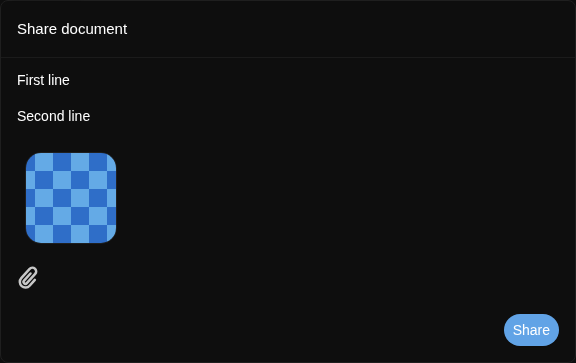
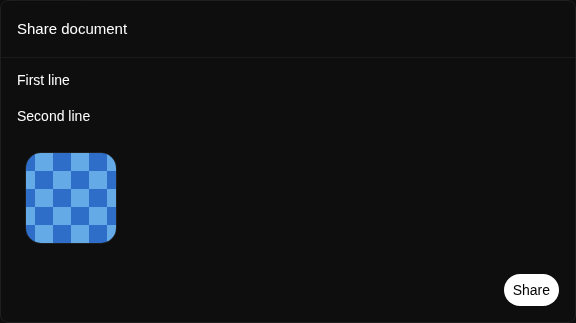
fix(sharing): remove paperclip from all share composers
Why: The shared optional message needs paste support without a paperclip action.

What: Remove the paperclip for every shared entity and simplify its rendering. Preserve paste and drop, adapt existing upload checks, and update the sharing guides.

diff --git a/apps/web/src/lib/core/component/ForwardMessageComposer/browser-test/images.browser.e2e.ts b/apps/web/src/lib/core/component/ForwardMessageComposer/browser-test/images.browser.e2e.ts
@@ -1,4 +1,4 @@
-import { expect, test } from '@playwright/test';
+import { expect, type Page, test } from '@playwright/test';
 
 const IMAGE =
[1 lines of base64/hex data omitted]
@@ -23,14 +23,8 @@ test.beforeEach(async ({ page, context }) => {
   });
 });
 
-test('pastes an image, waits for its upload and sends an inline image with multiline text', async ({
-  page,
-}, testInfo) => {
-  const editor = page.locator('[data-markdown-editable]');
-  await editor.click();
-  await page.keyboard.type('First line');
-  await page.keyboard.press('Enter');
-  await page.keyboard.type('Second line');
+async function pasteImage(page: Page) {
+  await page.locator('[data-markdown-editable]').click();
   await page.evaluate(async (encoded) => {
     const bytes = Uint8Array.from(atob(encoded), (char) => char.charCodeAt(0));
     await navigator.clipboard.write([
@@ -43,6 +37,17 @@ test('pastes an image, waits for its upload and sends an inline image with multi
   await expect(
     page.locator('[data-input-attachments="media"] img[src^="blob:"]')
   ).toBeVisible();
+}
+
+test('pastes an image, waits for its upload and sends an inline image with multiline text', async ({
+  page,
+}, testInfo) => {
+  const editor = page.locator('[data-markdown-editable]');
+  await editor.click();
+  await page.keyboard.type('First line');
+  await page.keyboard.press('Enter');
+  await page.keyboard.type('Second line');
+  await pasteImage(page);
   await expect(
     page.getByRole('button', { name: 'Share', exact: true })
   ).toBeDisabled();
@@ -71,14 +76,8 @@ test('pastes an image, waits for its upload and sends an inline image with multi
 test('removing an uploading image keeps it out of the message', async ({
   page,
 }) => {
-  await page.locator('[data-input-attach-file-picker]').setInputFiles({
-    name: 'removed.png',
-    mimeType: 'image/png',
-    buffer: Buffer.from(IMAGE, 'base64'),
-  });
-  await page
-    .getByRole('button', { name: 'Remove removed.png', exact: true })
-    .click();
+  await pasteImage(page);
+  await page.getByRole('button', { name: /^Remove / }).click();
   await page.getByRole('button', { name: 'Finish uploads' }).click();
   await expect(
     page.getByRole('button', { name: 'Share', exact: true })
@@ -128,18 +127,12 @@ test('accepts a dropped image and lets an upload failure recover', async ({
   await expect(
     page.getByRole('button', { name: 'Share', exact: true })
   ).toBeEnabled();
-  await page.locator('[data-input-attach-file-picker]').setInputFiles({
-    name: 'retry.png',
-    mimeType: 'image/png',
-    buffer: Buffer.from(IMAGE, 'base64'),
-  });
+  await pasteImage(page);
   await page.getByRole('button', { name: 'Finish uploads' }).click();
   await expect(
     page.getByRole('button', { name: 'Share', exact: true })
   ).toBeEnabled();
-  await expect(
-    page.getByRole('button', { name: 'Remove retry.png' })
-  ).toBeAttached();
+  await expect(page.getByRole('button', { name: /^Remove / })).toBeAttached();
   await page.getByRole('button', { name: 'Close share' }).click();
   await page.getByRole('button', { name: 'Open share' }).click();
   await expect(page.locator('[data-input-attachments="media"]')).toHaveCount(0);

diff --git a/apps/web/src/lib/core/component/ForwardToChannel.tsx b/apps/web/src/lib/core/component/ForwardToChannel.tsx
@@ -65,7 +65,6 @@ interface MobileForwardToChannelLayoutProps
   submitAccessLevel: Accessor<AccessLevel | null>;
   setSubmitAccessLevel: (level: AccessLevel | null) => void;
   composer: ReturnType<typeof createForwardMessageComposer>;
-  hideAttachFiles: boolean;
   handleSubmit: () => void;
   canSendAsGroup: Accessor<boolean>;
   sendAsGroupMessage: Accessor<boolean>;
@@ -156,10 +155,7 @@ function MobileForwardToChannelLayout(
       </Show>
 
       <div class="flex-1 min-h-20 flex flex-col w-full mt-3 border-t border-edge-muted relative">
-        <ForwardMessageComposer
-          composer={props.composer}
-          hideAttachFiles={props.hideAttachFiles}
-        />
+        <ForwardMessageComposer composer={props.composer} />
       </div>
     </Show>
   );
@@ -345,8 +341,6 @@ export function ForwardToChannel(props: ForwardToChannelProps) {
       entity_id: blockId() ?? '',
     };
   };
-
-  const hideAttachFiles = () => asAttachment().entity_type === 'agent_session';
 
   const trackForwardShare = (targetType: 'channel' | 'user') => {
     const attachment = asAttachment();
@@ -607,7 +601,6 @@ export function ForwardToChannel(props: ForwardToChannelProps) {
             submitAccessLevel={submitAccessLevel}
             setSubmitAccessLevel={setSubmitAccessLevel}
             composer={composer}
-            hideAttachFiles={hideAttachFiles()}
             handleSubmit={handleSubmit}
             canSendAsGroup={canSendAsGroup}
             sendAsGroupMessage={sendAsGroupMessage}
@@ -655,10 +648,7 @@ export function ForwardToChannel(props: ForwardToChannelProps) {
 
           {/* Row 2: Optional message */}
           <div class="grow shrink min-h-0 flex flex-col w-full border-t border-edge-muted">
-            <ForwardMessageComposer
-              composer={composer}
-              hideAttachFiles={hideAttachFiles()}
-            />
+            <ForwardMessageComposer composer={composer} />
 
             {/* Row 3: Send As Group (optional) + Cancel + Send */}
             <div class="shrink-0 flex w-full items-center px-4 py-4 gap-3 flex-wrap">

diff --git a/apps/web/src/lib/core/component/ForwardMessageComposer.tsx b/apps/web/src/lib/core/component/ForwardMessageComposer.tsx
@@ -10,7 +10,7 @@ import type { MessageEditorOptions } from '@core/messages/configured-message-edi
 import { fireAndForget } from '@core/util/fireAndForget';
 import { handleFileFolderDrop } from '@core/util/upload';
 import { Telemetry } from '@macro-inc/observability';
-import { type Accessor, createSignal, onCleanup, Show } from 'solid-js';
+import { type Accessor, createSignal, onCleanup } from 'solid-js';
 import { CustomScrollbar } from './CustomScrollbar';
 import { MarkdownShell } from './LexicalMarkdown/builder/MarkdownShell';
 import { ScrollIndicators } from './VerticalScrollIndicators';
@@ -126,7 +126,6 @@ export function createForwardMessageComposer(options: {
 
 export function ForwardMessageComposer(props: {
   composer: ReturnType<typeof createForwardMessageComposer>;
-  hideAttachFiles?: boolean;
 }) {
   return (
     <Input.Root
@@ -183,11 +182,6 @@ export function ForwardMessageComposer(props: {
             <Input.Attachments kind="document" />
           </div>
         </div>
-        <Show when={!props.hideAttachFiles}>
-          <div class="px-3 py-1 flex items-center">
-            <Input.AttachFilesAction disabled={props.composer.isSending()} />
-          </div>
-        </Show>
       </div>
     </Input.Root>
   );

diff --git a/apps/web/src/lib/core/component/ForwardMessageComposer/browser-test/fixture.tsx b/apps/web/src/lib/core/component/ForwardMessageComposer/browser-test/fixture.tsx
@@ -17,9 +17,6 @@ import {
 } from '../../ForwardMessageComposer';
 
 function Draft() {
-  const agentSession =
-    new URLSearchParams(window.location.search).get('entity') ===
-    'agent_session';
   const [pending, setPending] = createSignal<
     ((result: UploadResult) => void)[]
   >([]);
@@ -43,12 +40,9 @@ function Draft() {
     <>
       <section class="w-full max-w-xl border border-edge rounded-lg bg-surface overflow-hidden">
         <h1 class="text-base font-medium p-4 border-b border-edge-muted">
-          {agentSession ? 'Share agent session' : 'Share document'}
+          Share document
         </h1>
-        <ForwardMessageComposer
-          composer={composer}
-          hideAttachFiles={agentSession}
-        />
+        <ForwardMessageComposer composer={composer} />
         <div class="p-4 flex justify-end">
           <Button
             variant="primary"

diff --git a/docs/agent-guide/documents.md b/docs/agent-guide/documents.md
@@ -14,15 +14,17 @@ The document header has separate Share, Copy Share Link, and Side Panel buttons.
 They are borderless with a soft rounded background on hover. Share opens the
 sharing dialog; copying a link is a separate action.
 
-In the Share dialog's **Optional message**, paste an image with Cmd/Ctrl+V,
-use **Attach files**, or drop a file into the composer. Images show a removable
-preview and are sent inline beside the shared item to each selected person or
-channel. Share (including Cmd/Ctrl+Enter and the phone drawer's Share button)
-waits for uploads; Enter still inserts a newline. Removing an uploading image
+In the Share dialog's **Optional message**, paste an image with Cmd/Ctrl+V
+or drop a file into the composer. Share composers have no paperclip button on
+desktop or mobile. Images show a removable preview and are sent inline beside
+the shared item to each selected person or channel. Share (including
+Cmd/Ctrl+Enter and the phone drawer's Share button) waits for uploads; Enter still inserts a newline. Removing an uploading image
 keeps it removed, and closing the dialog discards its attachment draft.
-Verify paste, file selection, drop, removal during upload, upload failure, and
+Verify paste, drop, removal during upload, upload failure, and
 sending to both a person and a channel. On touch, attachment previews scroll
-horizontally and removal remains available without hover.
+horizontally and removal remains available without hover. Composer fixture
+screenshots: [desktop](media/share-images/desktop.png) and
+[phone](media/share-images/mobile.png).
 
 With `enable-calendar-meeting-notes` enabled, owned markdown documents' Share
 panel also lists **Meeting links** (under the **Link** tab on mobile).

diff --git a/apps/web/AGENTS.md b/apps/web/AGENTS.md
@@ -122,12 +122,12 @@ Gate event notes and document Share meeting-link controls with
 on in dev and uses PostHog in production.
 See `docs/agent-guide/calendar.md` at the repo root.
 
-Share message image paste, file selection, drop, removal during upload, and
+Share message image paste, drop, removal during upload, and
 upload failure have desktop, phone, and tablet browser coverage:
 `bunx playwright test --config src/lib/core/component/ForwardMessageComposer/browser-test/playwright.config.ts`.
 Keep the shared uploader from restoring removed attachments or publishing after
 the composer is disposed. The Share button and shortcut use the same upload guard.
-Hide the attachment button for agent-session sharing on desktop and mobile while preserving optional messages and image paste.
+Keep Share composers free of a paperclip button on desktop and mobile; preserve image paste and file drop.
 
 Menus that find entities by typed name (Command-K, mobile name search, @
 mentions) rank with `NAME_MATCH_RANKING` in `@core/util/freshSort`: names equal

diff --git a/apps/web/src/lib/core/component/ForwardMessageComposer/browser-test/README.md b/apps/web/src/lib/core/component/ForwardMessageComposer/browser-test/README.md
@@ -10,11 +10,11 @@ Set `PLAYWRIGHT_CHROMIUM_EXECUTABLE_PATH` when using an existing Chromium binary
 and `SHARE_BROWSER_PORT` if port 3097 is occupied.
 
 The fixture mounts the production Share message composer and editor over a
-controlled uploader. It exercises real clipboard paste, file input, drop events,
+controlled uploader. It exercises real clipboard paste, drop events,
 removal, failure recovery, and serialized inline-image payloads on desktop,
 phone, and tablet. Requests to hosted services are blocked. It does not test a
 live backend upload or delivery; `ForwardToChannel.test.tsx` checks the share
 send boundary and its upload guard. Screenshots are saved with test results.
 
-Open `/?entity=agent_session` to inspect the agent-session variant, which hides
-the attachment button while retaining the optional message and image paste.
+The shared composer has no paperclip button for any entity type. Images can
+still be pasted or dropped into the optional message.

diff --git a/docs/agent-guide/ai-chat.md b/docs/agent-guide/ai-chat.md
@@ -1603,9 +1603,7 @@ Saved sessions have **Share** and **Copy Share Link** in the desktop header;
 on mobile, open the session title menu and choose **Share**. The owner can
 select people or channels, choose their access level, and send the session with
 an optional message using the same Share dialog and mobile drawer as tasks.
-Agent-session sharing hides the attachment button on desktop and mobile;
-the optional message still supports pasted images. Composer fixture screenshots:
-[desktop](media/agent-share/desktop.png) and [phone](media/agent-share/mobile.png).
+Like other Share composers, it supports pasted images without a paperclip button.
 Sessions also support **Share** from entity list menus and the entity sharing
 shortcut. **People with access** lists the owner and shared conversations;
 the owner can change or remove a conversation's access. When that list holds
